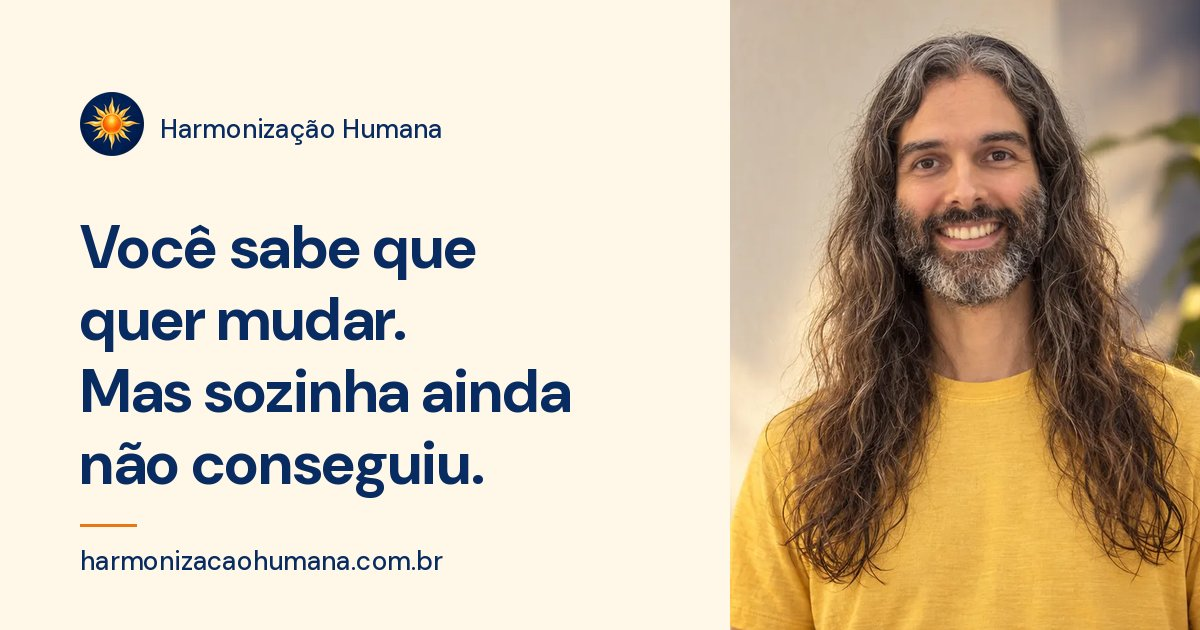
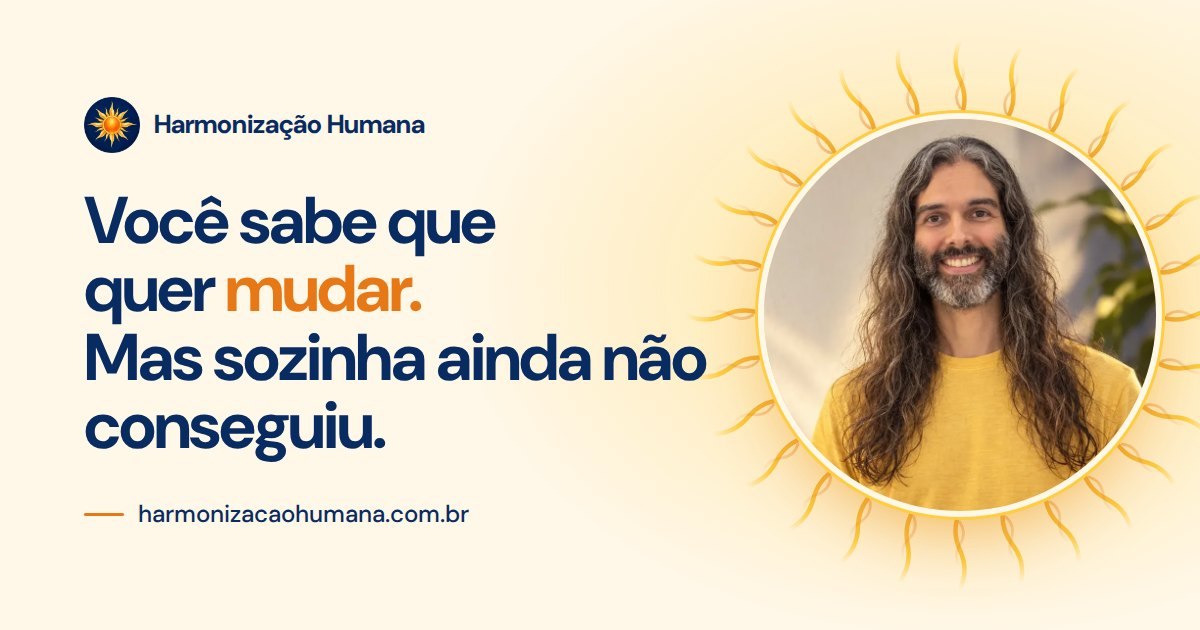
Ajustes: textos dos formatos, print em tamanho grande, ?letreiro=nao e imagem Solar
- Sessão: "Uma leitura completa, para o seu momento" (sem "experimentar")
- Jornada: "Para quem quer mudar profundamente" e "o caminho para ir mais fundo"
- Print da Geruza abre grande na própria página, com a mensagem inteira ao lado
- Âncoras dos formatos no celular param no cartão certo
- ?letreiro=nao esconde a faixa de palavras para comparar
- Imagem de compartilhamento: Solar ativa, versão com foto guardada como alternativa
- Lugar reservado do Sobre retirado; imagem fica como TODO
- Miniaturas dos Shorts: tenta também oar2.jpg antes do quadro 16:9

Claude-Session: https://claude.ai/code/session_01QVnpGaVNJMEf64F5GixpAt

diff --git a/src/css/site.css b/src/css/site.css
@@ -45,7 +45,7 @@
 }
 
 *, *::before, *::after { box-sizing: border-box; }
-html { -webkit-text-size-adjust: 100%; scroll-behavior: smooth; scroll-padding-top: 112px; }
+html { -webkit-text-size-adjust: 100%; scroll-behavior: smooth; scroll-padding-top: 80px; }
 body { margin: 0; font-family: var(--c); font-size: 1.125rem; line-height: 1.6; color: var(--texto); background: var(--marfim); -webkit-font-smoothing: antialiased; overflow-x: hidden; }
 img { max-width: 100%; height: auto; display: block; }
 a { color: inherit; text-underline-offset: 3px; }
@@ -314,7 +314,8 @@ h1, h2, h3 { font-family: var(--t); font-weight: 700; margin: 0; text-wrap: bala
 .entrada .lead { margin-top: 28px; max-width: 32em; }
 .entrada__sol { position: absolute; right: -220px; top: -240px; width: 600px; aspect-ratio: 1; opacity: .45; }
 @media (max-width: 899px) { .entrada__sol { right: -260px; top: -220px; } }
-.formato { scroll-margin-top: 120px; }
+.formato { scroll-margin-top: 36px; } /* 80px do topo + espaço para o selo Recomendada */
+@media (min-width: 900px) { .formato { scroll-margin-top: 56px; } }
 [data-tema="indigo"] .etapa { color: var(--indigo); }
 .etapa b { color: var(--laranja); }
 .formato__prazo { font-weight: 600; }
@@ -389,3 +390,20 @@ h1, h2, h3 { font-family: var(--t); font-weight: 700; margin: 0; text-wrap: bala
 /* Lugar reservado para imagem a gerar (o Filipe pede ao Aruan). Sai quando a imagem chegar. */
 .imagem-reservada { margin: 40px 0 0; aspect-ratio: 21 / 9; border-radius: var(--raio); border: 2px dashed rgba(8, 43, 97, .35); display: grid; place-items: center; text-align: center; padding: 24px; background: repeating-linear-gradient(135deg, rgba(255,247,231,.5) 0 12px, transparent 12px 24px); }
 .imagem-reservada span { font-family: var(--t); font-weight: 700; font-size: .9375rem; letter-spacing: .04em; color: var(--indigo); opacity: .75; max-width: 30ch; }
+
+/* Versão sem o letreiro de palavras: ?letreiro=nao (vale até fechar a aba) */
+html.sem-letreiro .faixa { display: none; }
+
+/* Print em tamanho grande, na própria página */
+.ampliado { border: 0; padding: 0; background: transparent; max-width: min(1080px, calc(100vw - 32px)); max-height: calc(100dvh - 32px); width: 100%; overflow: visible; }
+.ampliado::backdrop { background: rgba(6, 31, 71, .78); backdrop-filter: blur(4px); }
+.ampliado__caixa { position: relative; background: var(--marfim); border-radius: var(--raio); box-shadow: 0 30px 80px -20px rgba(0,0,0,.5); display: grid; max-height: calc(100dvh - 32px); overflow: auto; }
+.ampliado__print { background: #F6EFE2; display: grid; place-items: center; padding: 16px; }
+.ampliado__print img { width: 100%; max-width: 560px; height: auto; border-radius: 12px; }
+.ampliado__texto { padding: 32px; }
+.ampliado__texto h2 { font-size: 1.5rem; margin-bottom: 16px; }
+.ampliado__texto p { font-size: 1.0625rem; line-height: 1.65; margin: 0 0 1em; }
+.ampliado__fechar { position: absolute; top: 12px; right: 12px; z-index: 2; width: 44px; height: 44px; border-radius: 50%; border: 0; background: var(--indigo); color: var(--marfim); font-size: 1.5rem; line-height: 1; cursor: pointer; box-shadow: var(--sombra); }
+@media (min-width: 900px) { .ampliado__caixa { grid-template-columns: 1.1fr 1fr; overflow: hidden; } .ampliado__texto { overflow: auto; max-height: calc(100dvh - 32px); padding: 48px 40px; } }
+.depo__ler { align-self: flex-start; background: none; border: 0; padding: 0; cursor: pointer; font-family: var(--t); font-weight: 700; font-size: 1rem; color: var(--indigo); text-decoration: underline; text-underline-offset: 4px; }
+.depo__ler::before { content: "\2197"; display: inline-block; margin-right: 8px; text-decoration: none; }

diff --git a/src/js/site.js b/src/js/site.js
@@ -54,6 +54,18 @@
   }, { passive: true });
   aoRolar();
 
+  // Print do depoimento: abre grande na própria página (sem nova aba). Fecha no X, no Esc ou tocando fora.
+  document.querySelectorAll('[data-ampliar]').forEach(function (gatilho) {
+    var dialogo = document.getElementById(gatilho.getAttribute('data-ampliar'));
+    if (!dialogo || typeof dialogo.showModal !== 'function') return;
+    gatilho.addEventListener('click', function (e) { e.preventDefault(); dialogo.showModal(); });
+  });
+  document.querySelectorAll('dialog.ampliado').forEach(function (dialogo) {
+    dialogo.addEventListener('click', function (e) {
+      if (e.target === dialogo || e.target.hasAttribute('data-fechar')) dialogo.close();
+    });
+  });
+
   // Depoimentos em vídeo: a imagem dá lugar ao player só depois do toque (youtube-nocookie.com).
   document.querySelectorAll('[data-video]').forEach(function (botao) {
     botao.addEventListener('click', function () {

diff --git a/README.md b/README.md
@@ -56,4 +56,17 @@ montar o site (no Netlify) e servidas pelo próprio site. O print vai como veio,
 - Levar a versão Solar para o branch `main` e trocar o branch no Netlify (a tarefa das lives roda no `main`).
 - Conferir o endereço completo da playlist das lives (`playlistLives`).
 - Google Search Console e Bing Webmaster Tools, com o sitemap.
-- Imagens a gerar: ver `docs/imagens-a-gerar.md`.
+- Imagens: foto real para a trajetória no Sobre e foto de corpo inteiro em alta resolução (ver `docs/imagens-a-gerar.md`).
+- Versão de teste com mais respiro (sem a faixa de palavras), em branch separado.
+- PDF de apresentação com o texto longo do documento 02.
+- Atualizar o Design System com as escolhas finais do site.
+
+## Testes rápidos
+
+- `?letreiro=nao` esconde a faixa de palavras da Home (vale até fechar a aba); `?letreiro=sim` volta.
+
+## Imagem de compartilhamento
+
+Ativa: `src/img/compartilhamento.jpg` (versão Solar, retrato no sol). Alternativa guardada:
+`src/img/compartilhamento-foto.jpg` (foto à direita). Para trocar, copie a alternativa por cima da ativa
+e aumente o `?v=` do `og:image` em `scripts/partes.mjs` (o WhatsApp guarda a imagem antiga).

diff --git a/docs/imagens-a-gerar.md b/docs/imagens-a-gerar.md
@@ -3,7 +3,11 @@
 Cada lugar reservado no site (moldura tracejada) tem aqui o prompt. Quando a imagem chegar, ela entra no
 lugar da moldura. Formato de entrega: o maior tamanho possível (de preferência 2560 px de largura ou mais).
 
-## 1. Sobre · "Um caminho que não escolheu lado" (abaixo dos três cartões)
+## 1. Sobre · "Um caminho que não escolheu lado" (abaixo dos três cartões) · TODO
+
+Situação: o Filipe prefere uma foto real dele nessas situações (fotos antigas, de viagens e fotografando).
+Fica para quando ele separar as fotos. Hoje a seção vai sem imagem. Se a opção for gerar, o prompt é este.
+Para recolocar o lugar reservado: `<figure class="imagem-reservada">` depois dos cartões, em `paginas/sobre.mjs`.
 
 Proporção 21:9, horizontal, larga.
 
